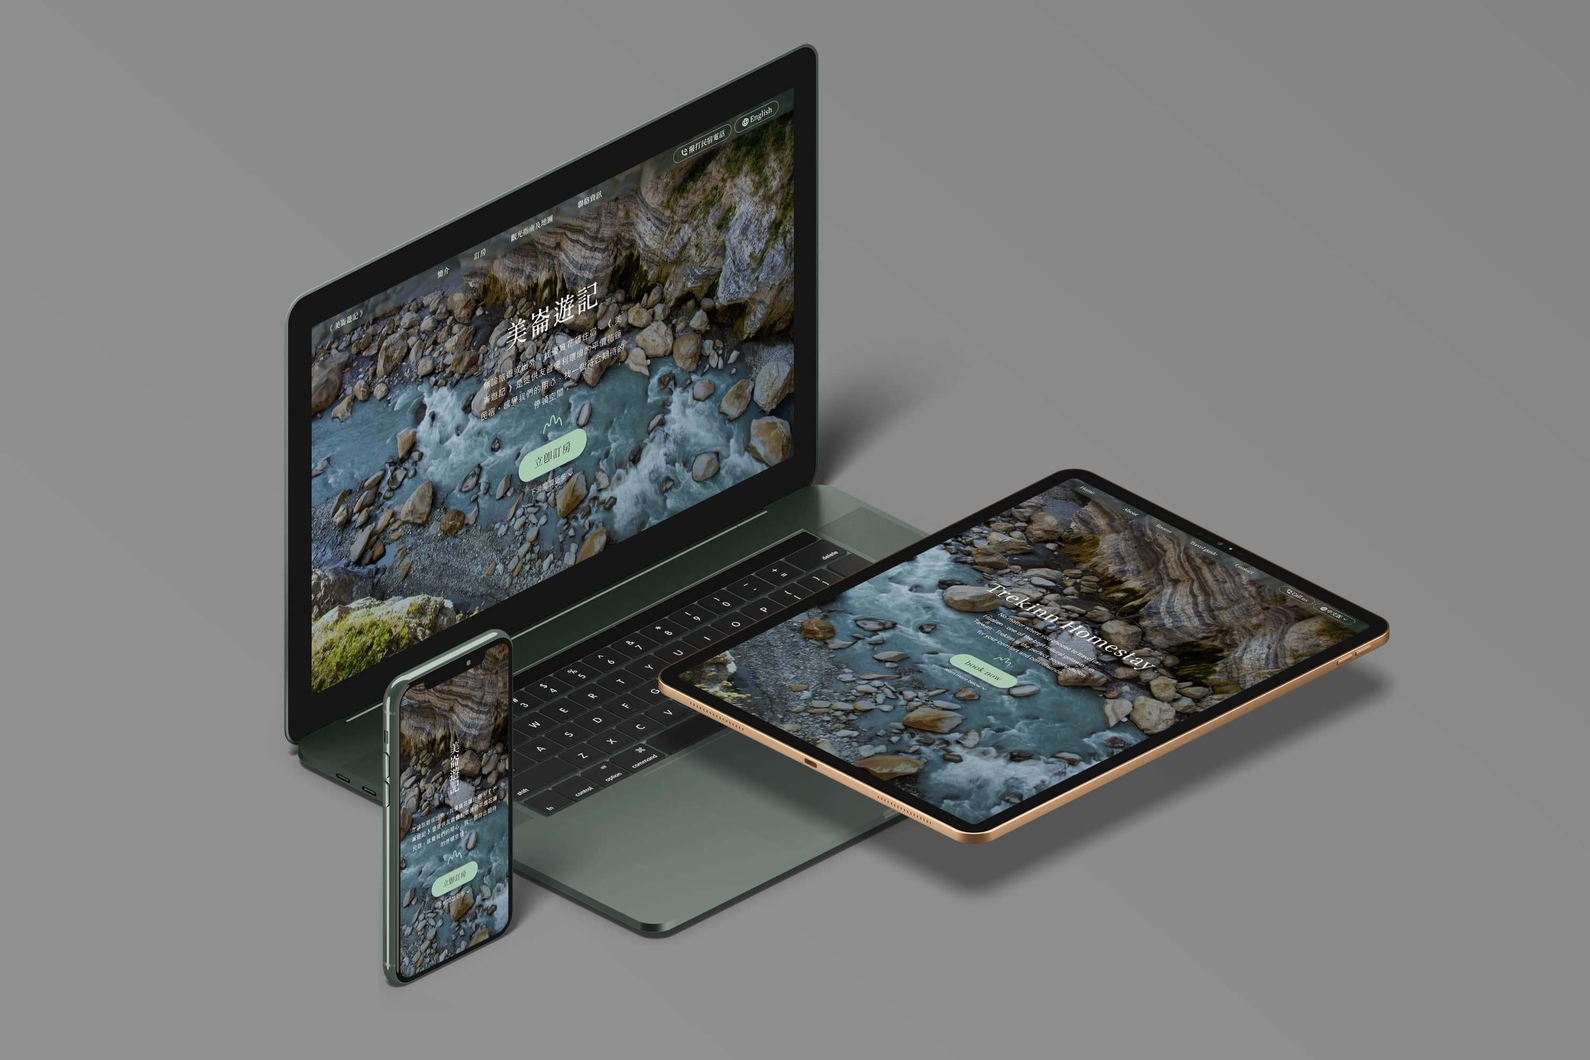
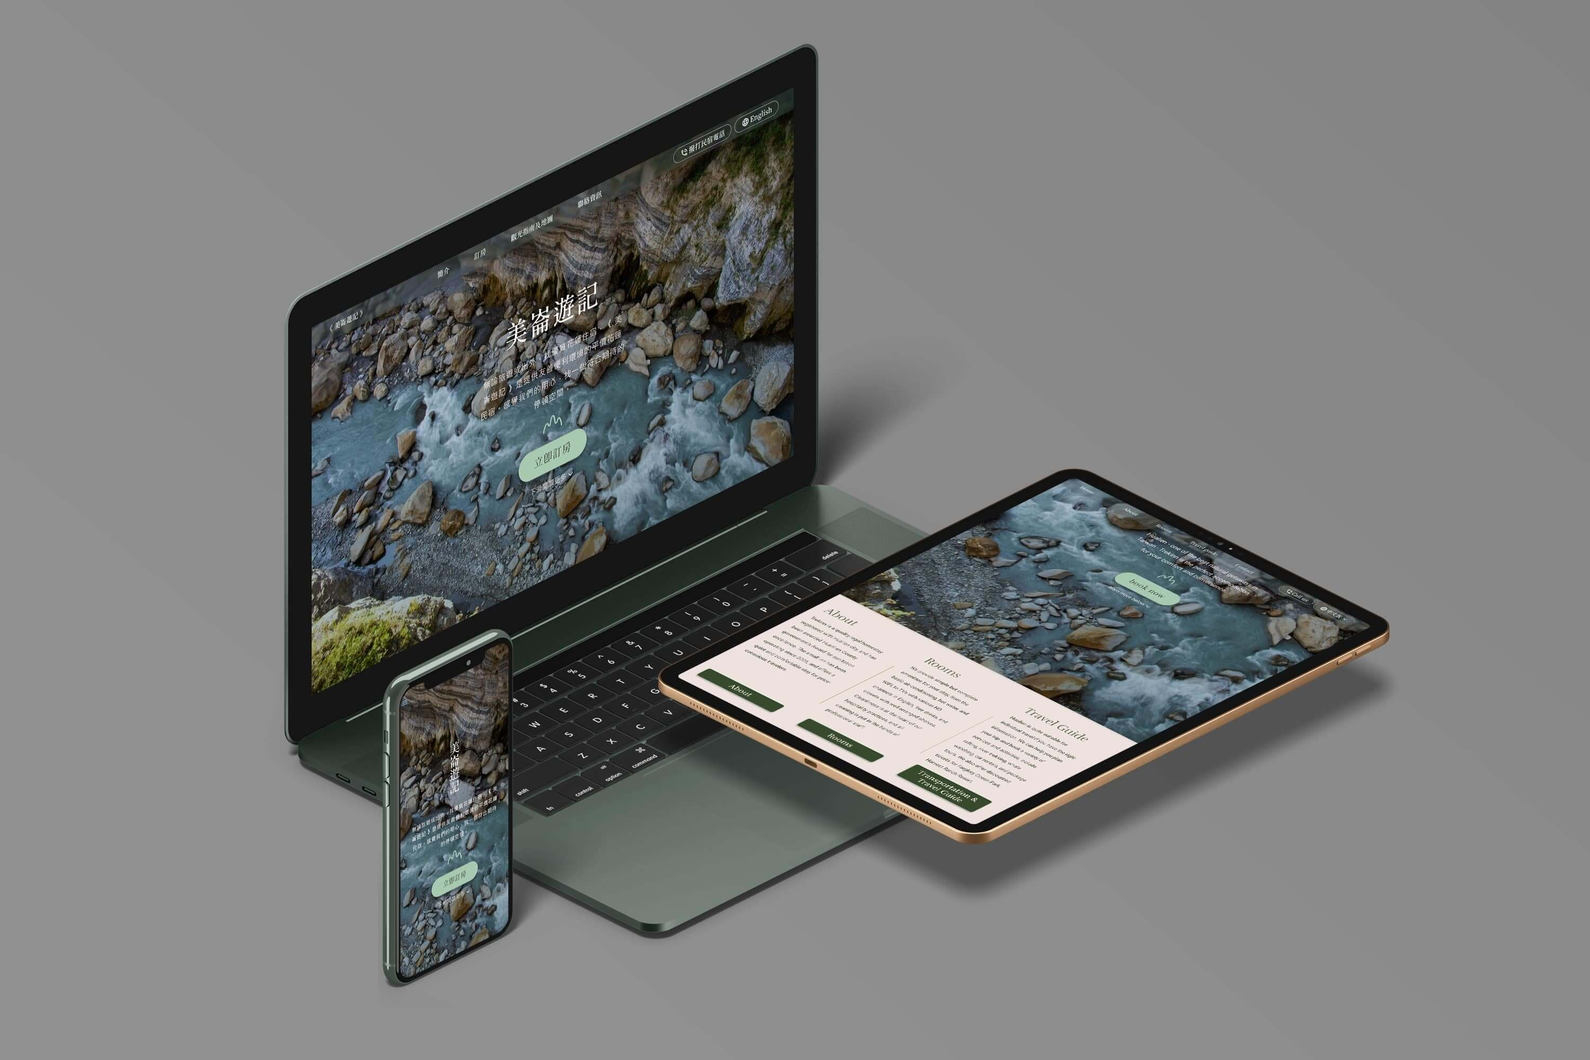
dec 24 added text to ProjectTrekinn. Added thumbnails to each project.

Changed region(s): [[0.434, 0.434, 0.868, 0.775]]

diff --git a/src/components/works/projects/ProjectTrekinn/ProjectTrekinn.js b/src/components/works/projects/ProjectTrekinn/ProjectTrekinn.js
@@ -17,8 +17,9 @@ import displayImage4 from './images/carousel-4.jpg'
 
 //research
 import Research from '../sections/Research'
-import userFlowAfter from './images/user-flow-after.png'
+import assessment from './images/assessment.png'
 import userFlowBefore from './images/user-flow-before.png'
+import userFlowAfter from './images/user-flow-after.png'
 //design
 import Design from '../sections/Design'
 
@@ -82,18 +83,18 @@ const ProjectTrekinn = ({m, l, setRouteFocus}) => {
         finalScreens={true}
         carousel = {true}
         carouselSlides={[displayImage1, displayImage2, displayImage3, displayImage4]}
-        carouselSlidesTitles={['user flow - order a refill. The app tracks medication count and highlights medications that are running low. Users have access to live status of their order and pharmacy wait times.','user flow - transfer a medication. Common questions about the transfer process are anticipated, and the user is guided through the process.', 'user flow - add a prescription via scan. The upload process can be overwhelming. Here I found a solution that presents information clearly without overwhelming the user, and also anticipated user questions regarding other methods of adding a prescription, answered in the tab "expand for other options', 'app hierarchy - menu and log-in screens on top, overlays in the middle, and the rest located in two main screens: Rx and Orders.']}
+        carouselSlidesTitles={["Trekinn's Landing page. Tablet screens are in English","Rooms page with photo Carousel", 'Map & Destinations page (laptop, phone) and Contact page (tablet). The mobile version of Map & Destinations has a button below the map. It opens the Google Maps app for quick navigation.', 'About page (laptop, phone) and Map & Destinations (tablet)']}
 
         mainImage={m?mainImageH:mainImageV}
-         research="Ideation, Research, and user flow"
+         research="Assessment, Reorganization, and user flow"
          design="color, typography, and wireframes"
          development = "Working with tailwind and i18n in React"
 
          title="Trekinn Website"
          roles="UI and UX Design, Development, Internationalization"
 
-         challenge="How can I design a scalable and maintainable portfolio website?"
-         solution="By using a design system and creating reusable sections and components."
+         challenge="How can I redesign a website while maintaining its original tone?"
+         solution="By extracting themes from website content and designing in accordance."
          summary="In this project I scoped out portfolio content constraints for both UX designers and junior frontend developers, then established a design system so that my website can scale consistently. Finally, I experimented with a new workflow that involves simultaneous design and development. By designing and developing reusable components in React and keeping organized, I was able to launch my react website in 20 days."
          websiteLink="vibrant-ritchie-da2a24.netlify.app"
 
@@ -105,53 +106,56 @@ const ProjectTrekinn = ({m, l, setRouteFocus}) => {
          l={l}
 
 
-         researchText="As the first step of design, I looked at common portfolio content and structure, referencing Google's UX design course for UX portfolio criteria, and junior web developer portfolio reviews for frontend developer portfolio criteria."
+         researchText="Trekinn is a local-owned homestay in Hualien - a popular gateway to some of the most scenic areas in Taiwan. Trekinn has two two-bed rooms and three one-bed rooms. Primary clients are young adults and families with young children."
+         assessmentText="The website uses minimal storytelling, and instead takes a direct and transparent tone that conveys simplicity and honesty. Website content emphasizes Trekinn’s cleanliness, excellent location, and locality – “We know our way around, and we can help you plan the best trip possible.” There are some thoughtful features such as a functional nav bar that allows users to quickly contact the homestay./Assessing the site, I can see very thoughtful information, but a lack of presentation - for instance, useful travel information and services are located under a “bulletin” page instead of being highlighted. The final scope of the project was information reorganization, increase of intra-website mobility, separation of Chinese and English versions, and overall, a responsive design that presents Trekinn in its best light."
+          assessmentImages={[assessment, userFlowBefore]}
+          assessmentTitles={["analysis of the original website's UX", "original website's information architecture"]}
 
-          competitiveAnalysisEmphasis="Each case study should be illustrative of design thinking and process, and provide context, roles, takeaways, and a lot of visuals to make the case study skimmable... ... Sections such as ‘Skills’ are discouraged, since evaluators prefer to see how developers apply those skills."
 
           singleStatistic={true}
           statisticTitles={["Do I need a responsive website?"]}
-          statisticTexts={["abcd"]}
+          statisticTexts={["The owner, who had created the original site, had taken a mobile-centered approach, and mentioned that most bookings were done via mobile. Since most of Trekinn's customers only book through mobile, is a desktop version needed? My answer is a wholehearted 'Yes'. According to a study by TripAdvisor, more than 55% of travelers use their laptops to plan or book a trip, in comparison to 42% for laptops - perhaps the lack of desktop bookings is not a prediction of desktop user behavior, but rather an indication that Trekinn’s website is not optimized for such users - the data collected by the owner was skewed by survivor bias (see source blog post). Optimizing for either mobile only or desktop only would be missing on many customers – a responsive design is crucial to providing a high quality and consistent experience for all users."]}
   
-          statisticSources={[["https://datausa.io/profile/geo/maine/"]]}
-          userFlowText = "With good user knowledge under my belt, I began organizing the screens into a coherent user flow. I ended up with three main user flows tha all have entry points in the current medications screen. I organized the three flows around two main screens - the orders screen and the current medications screen."
+          statisticSources={["https://ir.tripadvisor.com/news-releases/news-release-details/tripadvisor-study-reveals-42-travelers-worldwide-use-smartphones","https://www.trevorbragdon.com/when-data-gives-the-wrong-solution/"]}
+
+          userFlowText = "I ended up organizing site information into five screens: About, Rooms, Map & Destinations, and Contact. I also planned for a Landing page that would serve as an entry point to each page, and increased intra-website mobility by placing relavant links where needed. For instance, there is a link to the Contact page in the footer, and a link to Map & Destinations in the Rooms page, located right after booking information. This link is for users that just completed booking, and would like to explore things to do near the homestay or plan their itinerary in Hualien."
 
           userFlowImg={userFlowAfter}
-         designKeywords={["elegant", "tailored", "simplistic", "brochure-style"]}
-         designTone={["straightforward", "genuine", "insightful"]}
+         designKeywords={["elegant", "relaxing", "brochure-style"]}
+         designTone={["(established)","practical","informative","transparent", "genuine", "insightful"]}
         />
 
         <span id="design"></span>
         <Design m={m} l={l}
-        design="While looking at many web developer and web designer portfolios as part of my project research, I noticed that many portfolio designs lean towards the image of “big tech” or “sports” brands, using bold black and white, background-removed photos, and bold sans serif fonts or all-caps text. Although I tried this layout at first, it was ultimately not reflective of my design style or personality./By brainstorming on some qualities that make me and my designs unique, and decided on an elegant design, with bold and tasteful colors and a handwritten font that emphasizes craft."
+        design="I wanted to present Trekinn as a no frills, cost-effective, practical, and quiet space to relax and recharge. With this and the target audience of young adults and families in mind, I wanted the site to feel playful but not frivolous, modern but not too high end or eccentric. I began envisioning a brochure-like design quality, with many visuals, but also concentrated, well-organized information with a focus on exploring Hualien. With themes of warmth, elegance, and nature in mind, I jumped into my design workflow, starting with typography."
 
-        typography="With that starting point, I began looking at fonts. I wanted to find elegant and approachable fonts, more rectangular than boxed, and with an elongated stem. After briefly considering modern serifs, I decided that they tend to feel unapproachable, and turned to old-style serifs instead. I picked two serif fonts for the header, five sans serif ones for the body, and three for the handwritten decorative font. Then, I created a table of each header and body combination, assigned each combination the most complementary handwritten, then compared each before finally settling on ‘Lusitana’ for the header, ‘Yaldevi’ for the subtitles, and ‘La Belle Aurore’ for the handwritten font./Later in the development process I realized that Yaldevi can be quite difficult to read, so I brought in IBM Plex Sans to replace Yaldevi as the body font, keeping Yaldevi for subtitles."
+        typography="Since most customers are from Taiwan, my design approach is Chinese-first. For Chinese I wanted a Ming (serifed) font, which generally feels more serious and academic. I landed on Gen Wan Ming, which was a beautiful typeface that was both elegant and scholarly, with slightly rounded angles. The typeface pairs well with the serious tone of being direct and trustworthy, and also pairs well with the brochure quality I wanted./For the body text, I chose Genseki, a Gothic font. For the English body text, though at first I considered Noto Sans for its rounded quality, but finally turned to Roboto for its compactness and box-like quality that matches Chinese characters. At a late stage of development, I swapped the English Headers from the default Gen Wan Ming to the more Modern-leaning Rufina. This increased the coherency of the English website due to Rufina’s slimmer horizontal lines that ties in with Roboto./I encountered some difficulties tailoring the English version to the Chinese layout. For instance, optimal readability for Chinese or character-based languages falls between a line height of 1.5-1.7 (the default line height for Bootstrap is 1.4). When mapping English text onto the Chinese, line height can seem ‘off.’ This is why it is important to take a Chinese-first approach when it suits the project needs."
 
-        finalTypography={["3-Chinese Headings: Lusitana", "4-Chinese body: Noto Sans", "4-English Headings: Rufina","4-English body: Roboto"]}
+        finalTypography={["3-Chinese Headings: Gen Wan Ming", "4-Chinese body: Genseki", "4-English Headings: Rufina","4-English body: Roboto"]}
         typographyRefImages={[textRefEnglish, textRefBodyText]}
-        typographyRefTitles={["options for handwritten fonts", "all font combination options","comparison of readability between 'Yaldevi' and 'IBM Plex Sans'"]}
+        typographyRefTitles={["options for English headers", "Compatability of 'Genseki'-'Noto Sans' and 'Genseki'-'Roboto'"]}
         typographyFinalImg={typographyFinalImg}
 
         finalColorLabels={["sapling", "tropical", "ginger","plum"]}
         finalColorHexes ={ ['#A7C9AF','#83C4D2',"#C9AD83",'#E4816C']}
-        colorLabels={["cream", "beige","rapids", "taroko", "taroko"]}
+        colorLabels={["cream", "beige","rapids", "taroko", "ravine"]}
         colorHexes ={['#FFF6F2','#EDE2DD','#D8E5E3',"#3E4F54", '#384A2C']}
 
         designTitle ="Color Ideation"
         colorSection="Trekinn"
 
-        hifi="After viewing my high-fidelity design, a friend noted that the works design has a magazine-like quality to it. I decided to play with this design motif in my layout, adding elements such as dual columns, linear separators, and italics."
+        colorTitles="Color as Brand Message"
+        colorDescriptions="Although guests are highly encouraged to explore Hualien’s nature, there were not too many visuals. So the first thing I incorporated into the design assets were high-quality photos showcasing the local scenery. Since all of them are highly saturated, I wanted the website to have low to medium saturated colors for balance."
+        moodboardText="To generate a palette, I sampled both nature photos and photos of Trekinn’s interior, matched the sampled colors to each theme, then desaturated and tweaked each color individually until I have a low, medium, and high brightness colors for each theme."
+
+        colorTextures={texture}
+        colorText="lorem ipsum."
+        colorMoodboards={moodboard2}
+        
+        hifi="I wanted the site to be of medium contrast, with neutral to rounded components."
         hifiWireframesImages={[hifiMobile, hifiDesktop]}
         hifiWireframesTitles={["Mobile screens", "Desktop screens"]}
 
-        colorTitles="Color as Brand Message"
-        colorDescriptions="Three color groups reflect design keywords of warmth, nature, and elegance."
-        moodboardText="Using Pexels.com, I found various images which colors really speak to me, most of which have desaturated colors."
-
-        colorTextures={texture}
-        colorText="Noticing that the colors on the moodboard feel a bit too dreamy and eccentric, I added a bold and timeless burgundy./I also sought to add many greys, which not only convey professionality and elegance, but also make saturated colors stand out. The first grey I added to my website was a warm mid-dark grey, which really helped anchor the more vibrant colors on my existing palette. Desaturating photo elements also brought out many neutral greys to work with, while adding subtle gradients over them created further rootedness."
-        colorMoodboards={moodboard2}
-        
 
      />
      <span id="development"></span>
@@ -159,13 +163,13 @@ const ProjectTrekinn = ({m, l, setRouteFocus}) => {
       m={m}
       l={l}
 
-      developmentText="One of the things I wished I learned for my humanities database project was how to plan and organize code. For instance, I used too much inline CSS, which lead to readability issues whenever I needed to adjust the layout. Learning from that experience, I resolved to clearly plan my development folder tree."
+      developmentText="I am quite familiar with my React workflow at this point, but learning from my last project, wanted to learn and incorporate new tools. The first thing I did was setting up tailwind for quicker responsive coding. Being used to vanilla CSS, I had some difficulty finding corresponding classes by name, but having the cheatsheet from tailwindcomponents.com on hand really helped. Once I adapted, I loved working with tailwind, and I appreciated the freedom of coding CSS state changes without leaving JSX."
 
-      finalStack="HTML, CSS, JavaScript, React, Framer Motion."
+      finalStack="HTML, CSS, JavaScript, React, Tailwind, i18n."
       stackMemo="Hosted on Netlify"
       githubRepository="https://github.com/JCJang/personal-portfolio-website"
 
-  internationalizationText="internationalization/text"
+  internationalizationText="Instead of creating a separate English version of the site, I used i18n, which allows in-app language changes – no reload needed. It works by mapping json values onto their corresponding keys in the UI, and is fairly easy to work with."
   i18nTemplateCode="JCJang/4787555b42f172425b8cb8d0a3aaaff9"
 
   i18nJsonCode="JCJang/aa368419652cca4c9c63a15c9762beb8"

diff --git a/src/components/works/projects/sections/Research.js b/src/components/works/projects/sections/Research.js
@@ -1,6 +1,7 @@
 import ImageOverflow from './section-components/ImageOverflow'
 import Fade from 'react-reveal/Fade';
 
+import {IoScanCircleOutline as AssessmentIcon} from "react-icons/io5";
 import {IoPeopleOutline as UserStoriesIcon} from "react-icons/io5";
 import {IoLocateOutline as CompetitiveAnalysisIcon} from "react-icons/io5";
 import {IoNewspaperOutline as SurveyResultsIcon} from "react-icons/io5";
@@ -20,6 +21,9 @@ const Research = ({
   ideationText,
   ideationEmphasis,
   researchText,
+  assessmentText,
+  assessmentImages,
+  assessmentTitles,
   competitiveAnalysisEmphasis,
   competitiveAnalysis,
   users,
@@ -168,17 +172,18 @@ const Research = ({
 
   const parseText = (text) =>{
     if(!text) return
+    if(text.indexOf("/") === -1)return text
     return text.split("/").map((section, num)=>{
       return  <>
       <div>
       {
         section.split("$").map((titleSection, num) => {
-          if (num % 2 === 1 ) return <strong > {titleSection}< /strong>
+          if (num % 2 === 1 ) return <strong > {titleSection}</strong>
           if (titleSection.split("{=").length === 1) return titleSection
           return titleSection.split("•").slice(1).map(
                 (sec, num) => <div>- {sec}</div>)})
 
-                } < /div>
+                } </div>
       {num!==text.split("/").length && <br></br>}
       </>
     }
@@ -212,6 +217,21 @@ const Research = ({
   {parseText(researchText)}
   </div>
 
+  {assessmentText && <>
+
+  <h4 className="Row" style={textMarginStyleH4()}><AssessmentIcon style={iconStyle()}/>
+  Initial assessment</h4>
+  <div className="body1" style={textMarginStyle()}>
+  {parseText(assessmentText)}
+  </div>
+  <br></br>
+  {assessmentImages && <> <div className="RowCentered" style={overflowStyle()}>
+  <ImageOverflow l={l} m={m} height={l?"70vh":"50vh"} images={assessmentImages} titles={assessmentTitles} alt="assessment of original site" style={{filter:"saturate(0.8)"}}/>
+
+  </div>
+  </>}
+
+</>}
 
   {users && <>
   <h4 className="Row" style={textMarginStyleH4()}><UserStoriesIcon style={iconStyle()}/>User Stories</h4>
@@ -242,8 +262,6 @@ const Research = ({
   </>}
 
 { singleStatistic &&  <div style={{width:"100vw"}}>
-<div style={{marginBottom:extraSpacing()}}></div>
-
                   <Statistic m={m} l={l} title = {statisticTitles} text={statisticTexts} sources={statisticSources}/>
 
               <br></br>

diff --git a/src/components/works/projects/sections/Design.js b/src/components/works/projects/sections/Design.js
@@ -187,6 +187,8 @@ const Design = ({
 
     const parseText = (text) =>{
       if(!text) return
+      if(text.indexOf("/") === -1)return text
+
       return text.split("/").map((section, num)=>{
         return  <>
         <div>
@@ -254,7 +256,7 @@ const Design = ({
   </div>
 <Fade>
   <div>
-    <ImageOverflow l={l} m={m} height={l?"60vh":"40vh"} images={typographyRefImages} titles={typographyRefTitles} style={{filter:"saturate(0)"}}/>
+    <ImageOverflow l={l} m={m} height={l?"50vh":"35vh"} images={typographyRefImages} titles={typographyRefTitles} style={{filter:"saturate(0)"}}/>
   </div>
 
 <div style={{marginBottom:extraSpacing()}}></div>
@@ -277,7 +279,7 @@ const Design = ({
 <div style={{marginBottom:extraSpacing()}}></div>
 
   <div className="RowCentered" style={overflowStyle()}>
-      {typographyFinalImg && <ImageOverflow l={l} m={m} height="70vh" alt="final typography choices" images={[typographyFinalImg]}/>}
+      {typographyFinalImg && <ImageOverflow l={l} m={m} height="50vh" alt="final typography choices" images={[typographyFinalImg]}/>}
   </div>
   <div style={{width:"100vw", background:"var(--cinerous)", color:"var(--occlusion)"}}>
   <div style={{paddingBottom:extraSpacing()}}></div>
@@ -375,7 +377,7 @@ const Design = ({
   <br></br>
 <Fade>
   <div className="RowCentered" style={overflowStyle()}>
-    {hifiWireframesImages && <ImageOverflow l={l} m={m} height={l?"60vh":"75vh"} images={hifiWireframesImages} titles={hifiWireframesTitles} alt="high fidelity wireframes" style={{filter:"saturate(0.8)"}}/>}
+    {hifiWireframesImages && <ImageOverflow l={l} m={m} height={l?"80vh":"50vh"} images={hifiWireframesImages} titles={hifiWireframesTitles} alt="high fidelity wireframes" style={{filter:"saturate(0.8)"}}/>}
   </div>
 </Fade>
   {prototype && <>

diff --git a/src/components/works/projects/sections/Development.js b/src/components/works/projects/sections/Development.js
@@ -177,6 +177,7 @@ const Development = ({
 
  const parseText = (text) =>{
    if(!text) return
+   if(text.indexOf("/") === -1) return text
    return text.split("/").map((section, num)=>{
      return  <>
      <div>
@@ -199,17 +200,21 @@ const Development = ({
 
       <div id="summary-col-1" className="Column" style={colLarge()}>
 
-        <br></br>
+        
         <div className="body1">
           {parseText(developmentText)}
         </div>
       </div>
 
     <div id="summary-col-2" className="Column" style={colHalf()}>
-        <h5><a className="AboutWorksLink" href={githubRepository} target="_blank" style={{textDecoration:"none"}}><GithubIcon style={{  alignSelf: "center",
+        <h5><a className="AboutWorksLink" href={githubRepository} target="_blank" style={{textDecoration:"none"}}> 
+        <br style={{display:m && "none"}}></br>
+
+<GithubIcon style={{  alignSelf: "center",
           marginRight: "0.8rem",
           fontSize: "1.6rem",
-          minWidth:"1.6rem"}}/>click here for repository link</a></h5>
+          minWidth:"1.6rem"}}/>
+          click here for repository link</a></h5>
 
 
         <div className="boxDecoration" style={{
@@ -217,10 +222,10 @@ const Development = ({
           }}></div>
 
 
-        <h6 style={{paddingTop:col2PaddingTop()}}>
+        <h6>
          Final stack: {finalStack}
         </h6>
-        <br></br>
+        <br style={{display:l && "none"}}></br>
         <div><strong>{stackMemo}</strong></div>
     </div>
     </div>

diff --git a/src/components/works/projects/sections/Summary.js b/src/components/works/projects/sections/Summary.js
@@ -159,8 +159,8 @@ const Summary = ({
         zIndex: "29",
         padding: m?"1rem 5rem":"1rem 2rem",
         height: m
-          ? "20rem"
-          : "25rem",
+          ? "15rem"
+          : "20rem",
         width: "100vw",
         color: "var(--occlusion)",
         background: "var(--table-neutral)"
@@ -168,7 +168,7 @@ const Summary = ({
       <div style={{
           width: m
             ? "35vw"
-            : "80vw"
+            : "70vw"
         }}>
         <h2 className={l && "h1"} style={{paddingTop:"0"}}>{title}</h2>
         <br></br>
@@ -266,12 +266,12 @@ const Summary = ({
 
     {!carousel || !l &&  <div style={{marginBottom:extraSpacing()}}></div>}
 
-{!l && <h6 className="ColumnCentered"><strong>Tap on images to see them in full size</strong></h6>}
+{!l && <h6 className="ColumnCentered" style={{margin:`0 2rem`}}><strong>Tap on images to see them in full size</strong></h6>}
 
     {carousel &&
 
         <div className="body2" id="Final Screens" style={{marginTop:m?"3rem":"2rem"}}>
-          <Carousel carouselSlides={carouselSlides} carouselSlidesTitles={carouselSlidesTitles}/>
+          <Carousel carouselSlides={carouselSlides} height={l?"90vh":"40vh"} carouselSlidesTitles={carouselSlidesTitles}/>
         </div>
     }
 

diff --git a/src/components/works/projects/sections/Footer.js b/src/components/works/projects/sections/Footer.js
@@ -116,6 +116,8 @@ const Footer = ({
 
        const parseText = (text) =>{
          if(!text) return
+         if(text.indexOf("/") === -1)return text
+
          return text.split("/").map((section, num)=>{
            return  <>
            <div>
